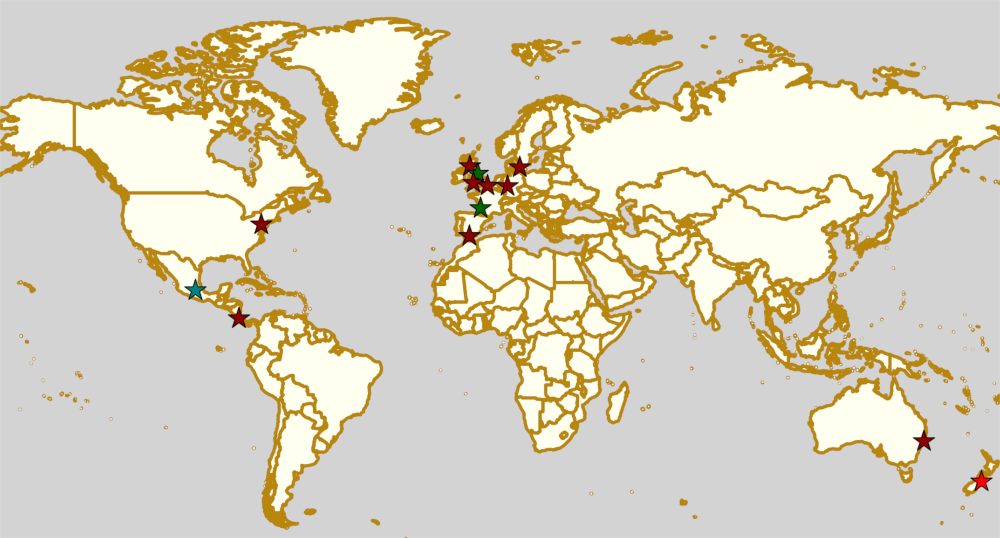
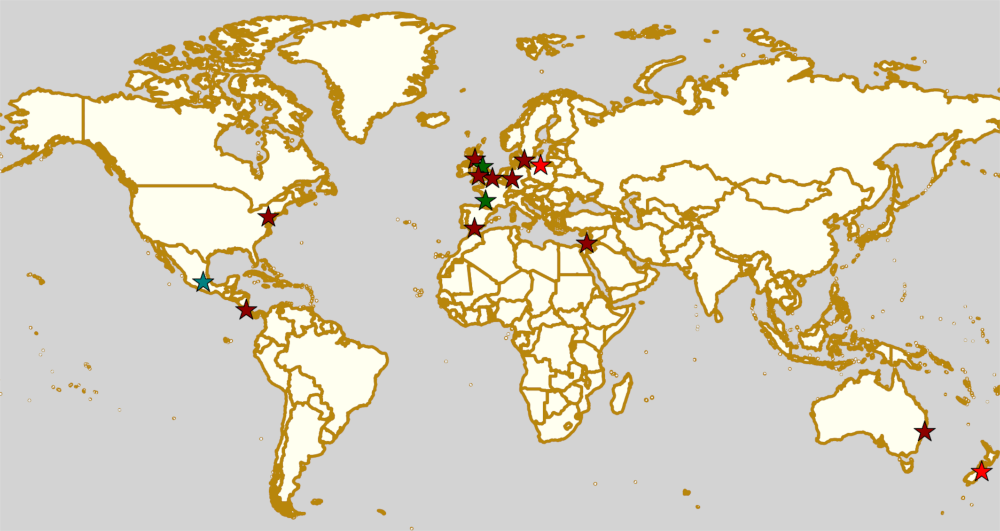
Added Tel Aviv, 3City Piranhas to 24 Aug highlights

diff --git a/output/posts/highlights/2019/weekendhighlights-24082019/index.html b/output/posts/highlights/2019/weekendhighlights-24082019/index.html
@@ -73,6 +73,20 @@ get themselves an actual webpage [we can help host one if you need help]).</p>
 <p>Event starts: 1200 Saturday (doors open)</p>
 <p>Venue: Chophouse, Wauchope Indoor Stadium, Cameron St, Wauchope, NSW, Australia</p>
 </div>
+<div class="section" id="sat-tel-aviv-israel">
+<h2>Sat: Tel Aviv, Israel</h2>
+<p><a class="reference external" href="https://www.facebook.com/events/510046146473411/">[FACEBOOK LINK]</a></p>
+<p><a class="reference external" href="https://www.instagram.com/tlv_derbygirls/">Tel Aviv Roller Derby</a> host a public scrimmage to promote the team. Merch also available on site.</p>
+<p>Event starts: 2130 Saturday</p>
+<p>Venue: Arye De Modina 22, Tel Aviv, Israel</p>
+</div>
+<div class="section" id="fri-gdansk-poland">
+<h2>Fri: Gdańsk, Poland</h2>
+<p><a class="reference external" href="https://www.facebook.com/events/403298423647084/">[FACEBOOK LINK]</a></p>
+<p><a class="reference external" href="https://www.instagram.com/3citypiranhas/">3City Piranhas Roller Derby</a> host a Friday evening Roller Disco, with a chance to meet the members of Gdańsk's finest derby team, and learn about the sport, too.</p>
+<p>Event starts: 2100 Friday</p>
+<p>Venue: Protokultura - Klub Sztuki Alternatywnej, Ul. Niterów 29B, Gdańsk, Poland</p>
+</div>
 <div class="section" id="sat-sun-malmo-sweden">
 <h2>Sat-Sun: Malmö, Sweden</h2>
 <p><a class="reference external" href="https://www.facebook.com/events/564675523937689/">[FACEBOOK LINK]</a>

diff --git a/output/posts/highlights/2019/weekendhighlights-24082019/index.rst b/output/posts/highlights/2019/weekendhighlights-24082019/index.rst
@@ -66,6 +66,37 @@ Event starts: 1200 Saturday (doors open)
 
 Venue: Chophouse, Wauchope Indoor Stadium, Cameron St, Wauchope, NSW, Australia
 
+Sat: Tel Aviv, Israel
+--------------------------------
+
+`[FACEBOOK LINK]`__
+
+.. __: https://www.facebook.com/events/510046146473411/
+
+
+`Tel Aviv Roller Derby`_ host a public scrimmage to promote the team. Merch also available on site.
+
+.. _Tel Aviv Roller Derby: https://www.instagram.com/tlv_derbygirls/
+
+Event starts: 2130 Saturday
+
+Venue: Arye De Modina 22, Tel Aviv, Israel
+
+Fri: Gdańsk, Poland
+--------------------------------
+
+`[FACEBOOK LINK]`__
+
+.. __: https://www.facebook.com/events/403298423647084/
+
+`3City Piranhas Roller Derby`_ host a Friday evening Roller Disco, with a chance to meet the members of Gdańsk's finest derby team, and learn about the sport, too.
+
+.. _3City Piranhas Roller Derby: https://www.instagram.com/3citypiranhas/
+
+Event starts: 2100 Friday
+
+Venue: Protokultura - Klub Sztuki Alternatywnej, Ul. Niterów 29B, Gdańsk, Poland
+
 Sat-Sun: Malmö, Sweden
 --------------------------------
 

diff --git a/posts/highlights/2019/wknd-24Aug2019.rst b/posts/highlights/2019/wknd-24Aug2019.rst
@@ -66,6 +66,37 @@ Event starts: 1200 Saturday (doors open)
 
 Venue: Chophouse, Wauchope Indoor Stadium, Cameron St, Wauchope, NSW, Australia
 
+Sat: Tel Aviv, Israel
+--------------------------------
+
+`[FACEBOOK LINK]`__
+
+.. __: https://www.facebook.com/events/510046146473411/
+
+
+`Tel Aviv Roller Derby`_ host a public scrimmage to promote the team. Merch also available on site.
+
+.. _Tel Aviv Roller Derby: https://www.instagram.com/tlv_derbygirls/
+
+Event starts: 2130 Saturday
+
+Venue: Arye De Modina 22, Tel Aviv, Israel
+
+Fri: Gdańsk, Poland
+--------------------------------
+
+`[FACEBOOK LINK]`__
+
+.. __: https://www.facebook.com/events/403298423647084/
+
+`3City Piranhas Roller Derby`_ host a Friday evening Roller Disco, with a chance to meet the members of Gdańsk's finest derby team, and learn about the sport, too.
+
+.. _3City Piranhas Roller Derby: https://www.instagram.com/3citypiranhas/
+
+Event starts: 2100 Friday
+
+Venue: Protokultura - Klub Sztuki Alternatywnej, Ul. Niterów 29B, Gdańsk, Poland
+
 Sat-Sun: Malmö, Sweden
 --------------------------------
 
